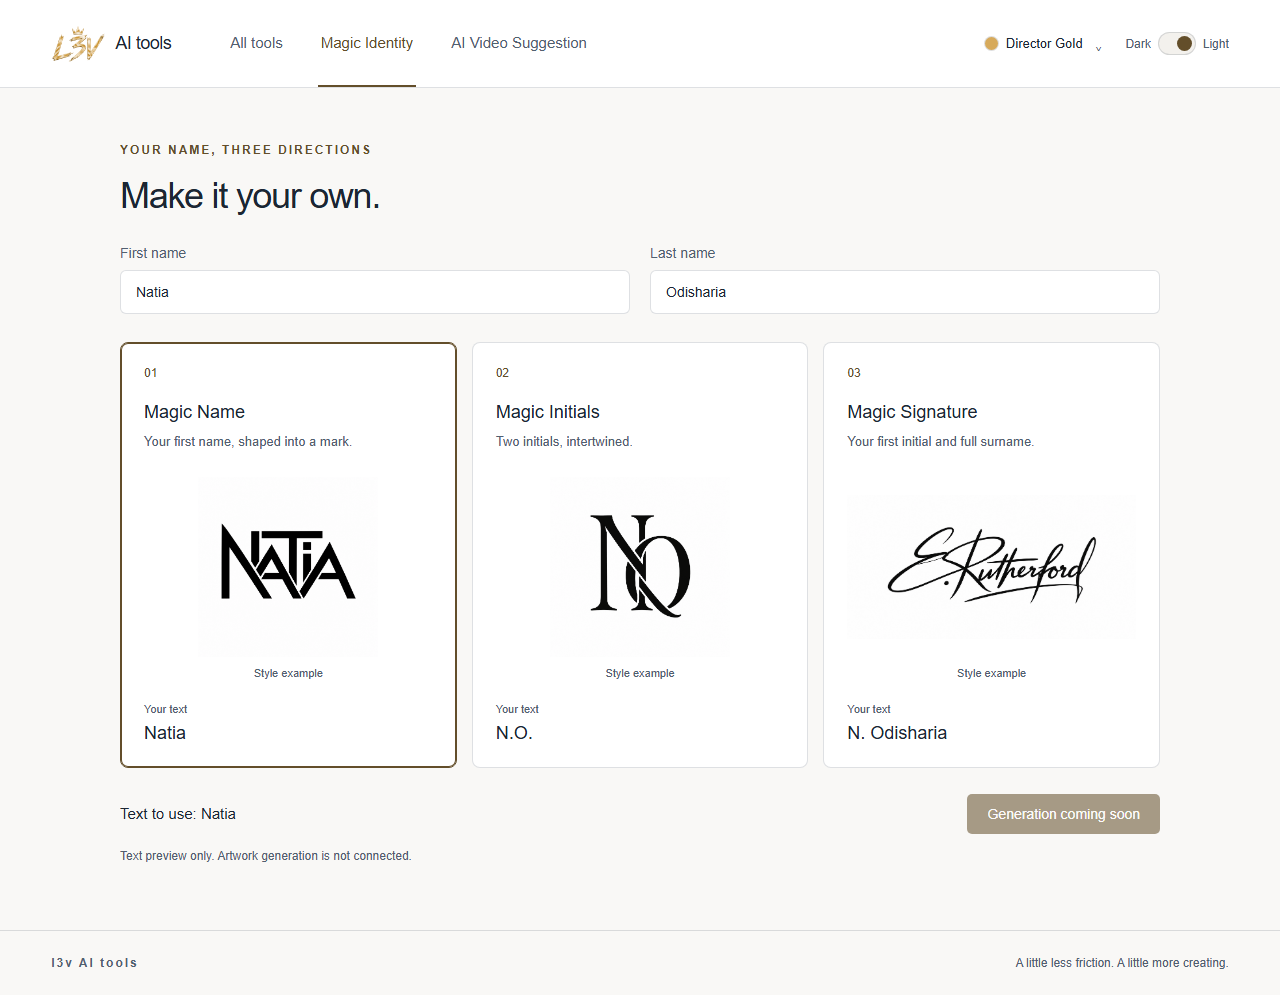
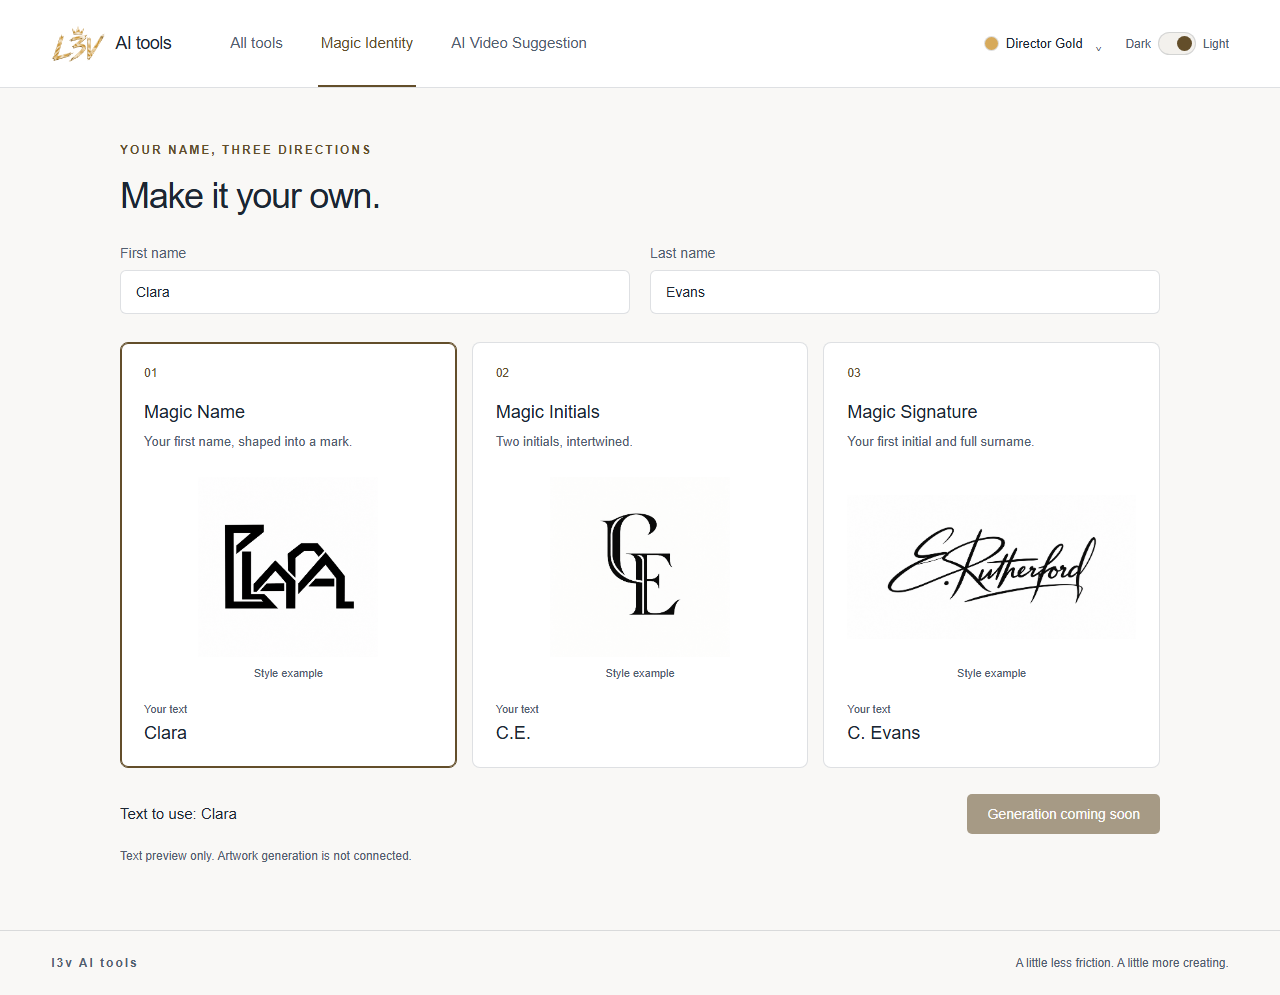
Use American names throughout Magic Identity examples

diff --git a/tools-website/src/components/Identity.jsx b/tools-website/src/components/Identity.jsx
@@ -7,8 +7,8 @@ const directions = [
   ['signature', 'Magic Signature', 'Your first initial and full surname.'],
 ];
 const examples = {
-  name: {file: 'magic-name.png', alt: 'Natia — compact angular name logo example'},
-  initials: {file: 'magic-initials.png', alt: 'N and O — woven serif initials example'},
+  name: {file: 'magic-name.png', alt: 'Clara — compact angular name logo example'},
+  initials: {file: 'magic-initials.png', alt: 'C and E — intertwined serif initials example'},
   signature: {file: 'magic-signature.png', alt: 'E. Rutherford — interwoven Capital Lattice signature example'},
 };
 function savedNames() { try { return JSON.parse(readStored('l3v-logo-names', '{}')) || {}; } catch { return {}; } }
@@ -32,7 +32,7 @@ export default function Identity({tool, localPreview}) {
     return () => controller.abort();
   }, [visible, localPreview, tool]);
   const example = !first.trim() && !last.trim();
-  const f = example ? 'Nino' : first.trim(), l = example ? 'Orbeliani' : last.trim();
+  const f = example ? 'Clara' : first.trim(), l = example ? 'Evans' : last.trim();
   const values = {name: f || 'Add your first name', initials: f && l ? `${initial(f).toLocaleUpperCase()}.${initial(l).toLocaleUpperCase()}.` : 'Add both names', signature: f && l ? `${initial(f).toLocaleUpperCase()}. ${l}` : 'Add both names'};
   function navigate(event, index) {
     const next = {ArrowRight: (index + 1) % 3, ArrowLeft: (index + 2) % 3, Home: 0, End: 2}[event.key];
@@ -41,7 +41,7 @@ export default function Identity({tool, localPreview}) {
   }
   return <section id="logo-panel" aria-label="Magic Identity" hidden={!visible}>
     <div className="name-workspace"><p className="eyebrow">YOUR NAME, THREE DIRECTIONS</p><h1>Make it your own.</h1>
-      <div className="shared-name"><label>First name<input id="first-name" autoComplete="given-name" placeholder="Nino" maxLength={80} value={first} onChange={e => setFirst(e.target.value)} /></label><label>Last name<input id="last-name" autoComplete="family-name" placeholder="Orbeliani" maxLength={80} value={last} onChange={e => setLast(e.target.value)} /></label></div>
+      <div className="shared-name"><label>First name<input id="first-name" autoComplete="given-name" placeholder="Clara" maxLength={80} value={first} onChange={e => setFirst(e.target.value)} /></label><label>Last name<input id="last-name" autoComplete="family-name" placeholder="Evans" maxLength={80} value={last} onChange={e => setLast(e.target.value)} /></label></div>
       <div className="direction-cards" role="tablist" aria-label="Creative direction">{directions.map(([id, label, copy], i) => <button key={id} ref={el => { buttons.current[i] = el; }} id={'direction-' + id} role="tab" aria-selected={direction === id} aria-controls="direction-preview" tabIndex={direction === id ? 0 : -1} onClick={() => setDirection(id)} onKeyDown={e => navigate(e, i)}><span>0{i + 1}</span><strong>{label}</strong><small>{copy}</small><span className="direction-artwork"><img src={'/assets/identity/' + examples[id].file} alt={examples[id].alt} width={id === 'signature' ? 1774 : 1254} height={id === 'signature' ? 887 : 1254} loading="lazy" decoding="async" /></span><small className="artwork-label">Style example</small><small className="typed-name-label">{example ? 'Example text' : 'Your text'}</small><b id={'sample-' + id}>{values[id]}</b></button>)}</div>
       <div id="direction-preview" role="tabpanel" aria-labelledby={'direction-' + direction}><p id="direction-text" aria-live="polite">{example ? 'Example text' : 'Text to use'}: {values[direction]}</p><button className="secondary" disabled>Generation coming soon</button><p className="direction-note">Text preview only. Artwork generation is not connected.</p></div>
     </div>

diff --git a/tools-website/tests/app.spec.js b/tools-website/tests/app.spec.js
@@ -8,8 +8,8 @@ const modelId = pricing.rates[0].modelId;
 test('routing, three names, keyboard tabs and persisted identity', async ({page}) => {
   await page.goto('/');
   await page.getByRole('link', {name: 'Magic Identity', exact: true}).click();
-  await page.getByLabel('First name', {exact: true}).fill('Natia');
-  await page.getByLabel('Last name', {exact: true}).fill('Odisharia');
+  await page.getByLabel('First name', {exact: true}).fill('Clara');
+  await page.getByLabel('Last name', {exact: true}).fill('Evans');
   await expect(page.locator('#sample-name')).toHaveText('Natia');
   await expect(page.locator('#sample-initials')).toHaveText('N.O.');
   await page.locator('#direction-name').focus();
@@ -113,8 +113,8 @@ test('public hostname never connects to local editor and desktop layout renders'
     await route.fulfill({response});
   });
   await page.goto('https://tools.test/#logo');
-  await page.getByLabel('First name', {exact: true}).fill('Natia');
-  await page.getByLabel('Last name', {exact: true}).fill('Odisharia');
+  await page.getByLabel('First name', {exact: true}).fill('Clara');
+  await page.getByLabel('Last name', {exact: true}).fill('Evans');
   await expect(page.locator('#logo-frame')).toHaveCount(0);
   await expect(page.getByRole('link', {name: 'Open full window'})).toHaveCount(0);
   expect(localCalls).toHaveLength(0);

diff --git a/tools-website/ARTWORK-EXAMPLES.md b/tools-website/ARTWORK-EXAMPLES.md
@@ -6,8 +6,8 @@ Original PNGs are copied without altering artwork or aspect ratio. Public inclus
 
 | Public asset | Original batch / selector | SHA256 |
 |---|---|---|
-| magic-name.png | compact-logos-001 / 32-hard-angular | d9f060f71712827fcbaf4f4a27d2b8445f0225f4f2836e3fc4cde41ec04a8085 |
-| magic-initials.png | lettering-matrix-001 / woven-serif | fa4053c17f804b578e2c3e7b3d4db98e7388481ec73e5fa0b8fa7dadd610f469 |
+| magic-name.png | compact-logos-001 / 01-hard-angular | 7588b7a7f324caa2b39a885c2ffeeff2c18d59299bc4f60372f8705fca8240c7 |
+| magic-initials.png | Original initials batch / INI900-S24-N01 | 6bf63461ff0c9e0b01a184127a68e2d495d91287648431160ad316dd401666b1 |
 | magic-signature.png | Original signature practice / sig-capital-lattice (Elena Rutherford) | 4eab6f0deae3e7fd2cd9367c919fae2043eaa6da27be05be186ad943b7b4ce1f |
 
-Name example: Natia. Initials example: N/O. Signature example: E. Rutherford (Elena Rutherford). Selecting a category or typing a name does not regenerate these examples.
+Name example: Clara. Initials example: C/E (Clara Evans). Signature example: E. Rutherford (Elena Rutherford). Selecting a category or typing a name does not regenerate these examples.
